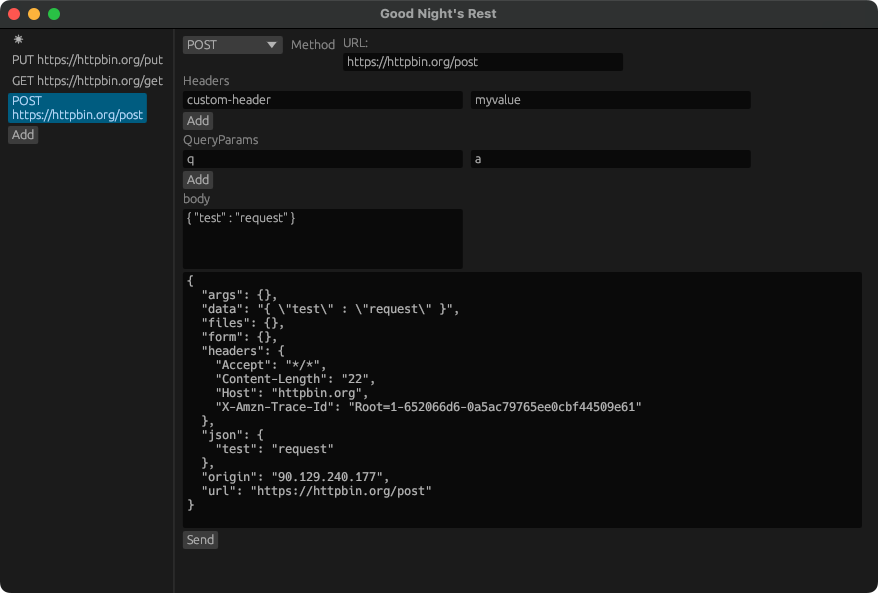
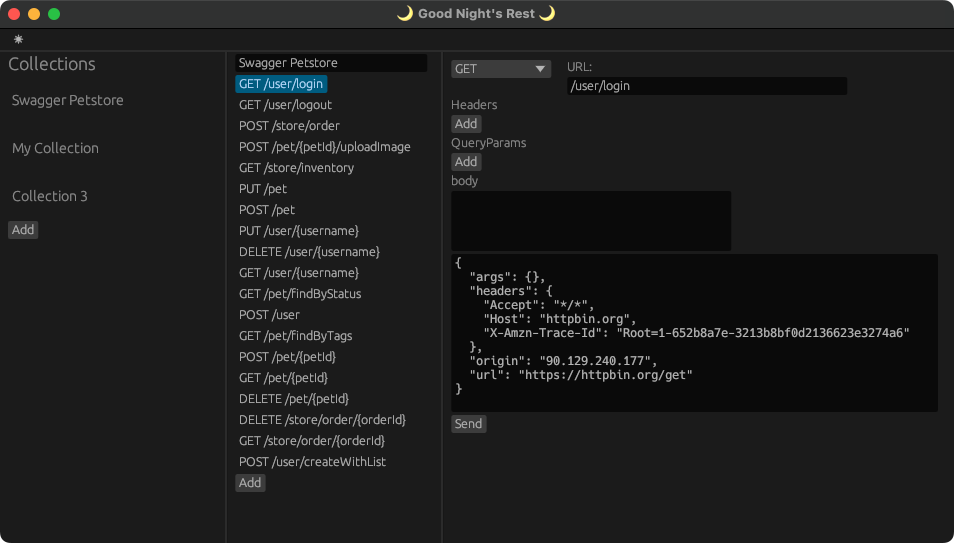
Read collection from file and load into UI

Changed region(s): [[0.0, 0.0, 1.0, 0.9429], [0.4613, 0.1768, 0.5535, 0.3536], [0.0, 0.3536, 0.0923, 0.442]]

diff --git a/src/app.rs b/src/app.rs
@@ -3,9 +3,10 @@ use eframe::emath::Align2;
 use eframe::epaint::FontId;
 use log::{error, info};
 
-use crate::collection::CollectionItem;
+use crate::collection::Collection;
 use crate::components::edit_view::EditView;
 use crate::components::select_list::SelectList;
+use crate::openapi::OpenAPI;
 use crate::requests::{perform_request, Request};
 use std::sync::Mutex;
 use std::sync::{mpsc, Arc};
@@ -15,7 +16,7 @@ pub struct AppState {
     selected_request_index: usize,
     selected_collection_index: usize,
     requests: Vec<Request>,
-    collection_list: Vec<CollectionItem>,
+    collection_list: Vec<Collection>,
     response: String,
     tx: mpsc::Sender<String>,
     rx: Arc<Mutex<mpsc::Receiver<String>>>,
@@ -67,8 +68,7 @@ impl eframe::App for AppState {
         egui::TopBottomPanel::top("top_panel").show(ctx, |ui| {
             ui.horizontal(|ui| {
                 // spread out as much as possible
-                ui.style_mut().spacing.item_spacing = egui::vec2(0.0, 0.0);
-                ui.heading(r#"🌙 Good Night's Rest 🌙"#);
+                // ui.heading(r#"🌙 Good Night's Rest 🌙"#);
                 egui::widgets::global_dark_light_mode_switch(ui);
             });
         });
@@ -101,15 +101,18 @@ impl eframe::App for AppState {
                 .show(ui);
                 if ui.button("Add").clicked() {
                     info!("Add button clicked");
+                    // create a new collection
                     let collection = vec![Request::new()];
-                    let collection_item = CollectionItem {
+                    let collection_item = Collection {
                         name: format!("Collection {}", self.collection_list.len() + 1),
                         collection: collection.clone(),
                     };
                     self.collection_list.push(collection_item);
-                    self.requests = collection;
-                    self.selected_request_index = 0;
-                    self.response = String::new();
+
+                    // select it
+                    // self.requests = collection;
+                    // self.selected_request_index = 0;
+                    // self.response = String::new();
                 }
             });
         });
@@ -179,15 +182,18 @@ impl eframe::App for AppState {
 impl Default for AppState {
     fn default() -> Self {
         let (tx, rx) = mpsc::channel();
-        let collection = vec![Request::new()];
-        let collection_item = CollectionItem {
-            name: "Collection 1".to_string(),
-            collection: collection.clone(),
-        };
+
+        let path = String::from("./test_data/test.yaml");
+        let openapi = OpenAPI::load_from_yaml_file(path);
+        let collection = Collection::from_openapi_format(openapi);
+        // let collection_item = Collection {
+        //     name: "Collection 1".to_string(),
+        //     collection: collection.clone(),
+        // };
         Self {
             response: String::new(),
-            requests: collection.clone(),
-            collection_list: vec![collection_item],
+            requests: collection.collection.clone(),
+            collection_list: vec![collection],
             selected_request_index: 0,
             selected_collection_index: 0,
             tx,

diff --git a/src/collection.rs b/src/collection.rs
@@ -2,67 +2,49 @@ use std::collections::HashMap;
 
 use serde::{Serialize, Deserialize};
 
-use crate::requests::Request;
+use crate::{requests::Request, method::Method};
+use crate::openapi::OpenAPI;
 
-// pub type Collection = Vec<Request>;
-
-pub struct CollectionItem {
+pub struct Collection {
     pub name: String,
     pub collection: Vec<Request>,
 }
 
-#[derive(Serialize, Deserialize)]
-struct Info { 
-    title: String,
-}
-impl Info {
-    pub fn new(title: String) -> Info {
-        Info {
-            title,
-        }
-    }
-}
 
-#[derive(Serialize, Deserialize)]
-struct MethodType {
-    response: String
-}
-
-#[derive(Serialize, Deserialize)]
-struct OpenAPI {
-    pub openapi: String,
-    pub info: Info,
-    pub paths: HashMap<String, HashMap<String, MethodType>>
-}
-
-impl OpenAPI {
-    pub fn new(title: String) -> OpenAPI {
-        OpenAPI {
-            openapi: String::from("3.0.1"),
-            info: Info::new(title),
-            paths: HashMap::new(),
-        }
-    }
-}
-
-impl CollectionItem {
-    pub fn new(name: String, collection: Vec<Request>) -> CollectionItem {
-        CollectionItem {
+impl Collection {
+    pub fn new(name: String, collection: Vec<Request>) -> Collection {
+        Collection {
             name,
             collection,
         }
     }
 
-    pub fn to_openapi_format(&self) -> String {
-        let mut openapi = OpenAPI::new(self.name.clone());
-        let mut path_map: HashMap<String, HashMap<String, MethodType>> = HashMap::new();
-        for request in self.collection.iter() {
-            let mut p: HashMap<String, MethodType> = HashMap::new();
-            p.insert(request.method.to_string(), MethodType { response: "200".to_string() });
-            path_map.insert(request.url.clone(), p);
+    pub fn from_openapi_format(openapi: OpenAPI) -> Collection {
+        let mut collection = Collection::new(openapi.info.title, Vec::new());
+        for (path, method) in openapi.paths.iter() {
+            for (method_name, _) in method.iter() {
+                let mut request = Request::new();
+                request.url = path.clone();
+                request.method = Method::from_string(method_name.clone());
+                collection.collection.push(request);
+            }
         }
-        openapi.paths = path_map;
-        serde_yaml::to_string(&openapi).unwrap()
+        collection
     }
 }
 
+
+#[cfg(test)]
+mod tests {
+    use super::*;
+
+    #[test]
+    fn test_from_openapi_format() {
+        let path = String::from("./test_data/test.yaml");
+        let openapi = OpenAPI::load_from_yaml_file(path);
+        let collection = Collection::from_openapi_format(openapi);
+        assert_eq!(collection.collection.len(), 19);
+        // let first_collection_item = &collection.collection[0];
+        // assert_eq!(first_collection_item.url, "/api/v1/cluster");
+    }
+}

diff --git a/src/openapi.rs b/src/openapi.rs
@@ -3,8 +3,8 @@ use std::collections::HashMap;
 use serde::{Deserialize, Serialize};
 
 #[derive(Serialize, Deserialize)]
-struct Info {
-    title: String,
+pub struct Info {
+    pub title: String,
 }
 impl Info {
     pub fn new(title: String) -> Info {
@@ -13,23 +13,23 @@ impl Info {
 }
 
 #[derive(Serialize, Deserialize)]
-struct CodeResponseObject {
-    description: String,
+pub struct CodeResponseObject {
+   pub description: String,
 }
 
 #[derive(Serialize, Deserialize)]
-struct RequestBodyObject { 
-    description: Option<String>,
+pub struct RequestBodyObject { 
+    pub description: Option<String>,
 }
 
 #[derive(Serialize, Deserialize)]
-struct MethodType {
-   requestBody: Option<RequestBodyObject>,
-   responses: HashMap<String, CodeResponseObject>,
+pub struct MethodType {
+   pub requestBody: Option<RequestBodyObject>,
+   pub responses: HashMap<String, CodeResponseObject>,
 }
 
 #[derive(Serialize, Deserialize)]
-struct OpenAPI {
+pub struct OpenAPI {
     pub openapi: String,
     pub info: Info,
     pub paths: HashMap<String, HashMap<String, MethodType>>,
@@ -44,7 +44,7 @@ impl OpenAPI {
         }
     }
 
-    fn load_from_yaml_file(path: String) -> OpenAPI {
+    pub fn load_from_yaml_file(path: String) -> OpenAPI {
         // load the file first
         let file = std::fs::File::open(path).unwrap();
         let reader = std::io::BufReader::new(file);
@@ -61,8 +61,7 @@ impl OpenAPI {
 
 #[cfg(test)]
 mod tests {
-    use super::*;
-    use crate::method::Method;
+    use crate::{method::Method, openapi::OpenAPI};
     use std::io::Write;
 
     #[test]

diff --git a/src/method.rs b/src/method.rs
@@ -10,6 +10,19 @@ pub enum Method {
     DELETE,
 }
 
+impl Method {
+    pub fn from_string(method: String) -> Method {
+        let  method = method.to_uppercase();
+        match method.as_str() {
+            "GET" => Method::GET,
+            "POST" => Method::POST,
+            "PUT" => Method::PUT,
+            "DELETE" => Method::DELETE,
+            _ => panic!("Invalid method {}", method),
+        }
+    }
+}
+
 impl Display for Method {
     fn fmt(&self, f: &mut std::fmt::Formatter<'_>) -> std::fmt::Result {
         let method = match self {
